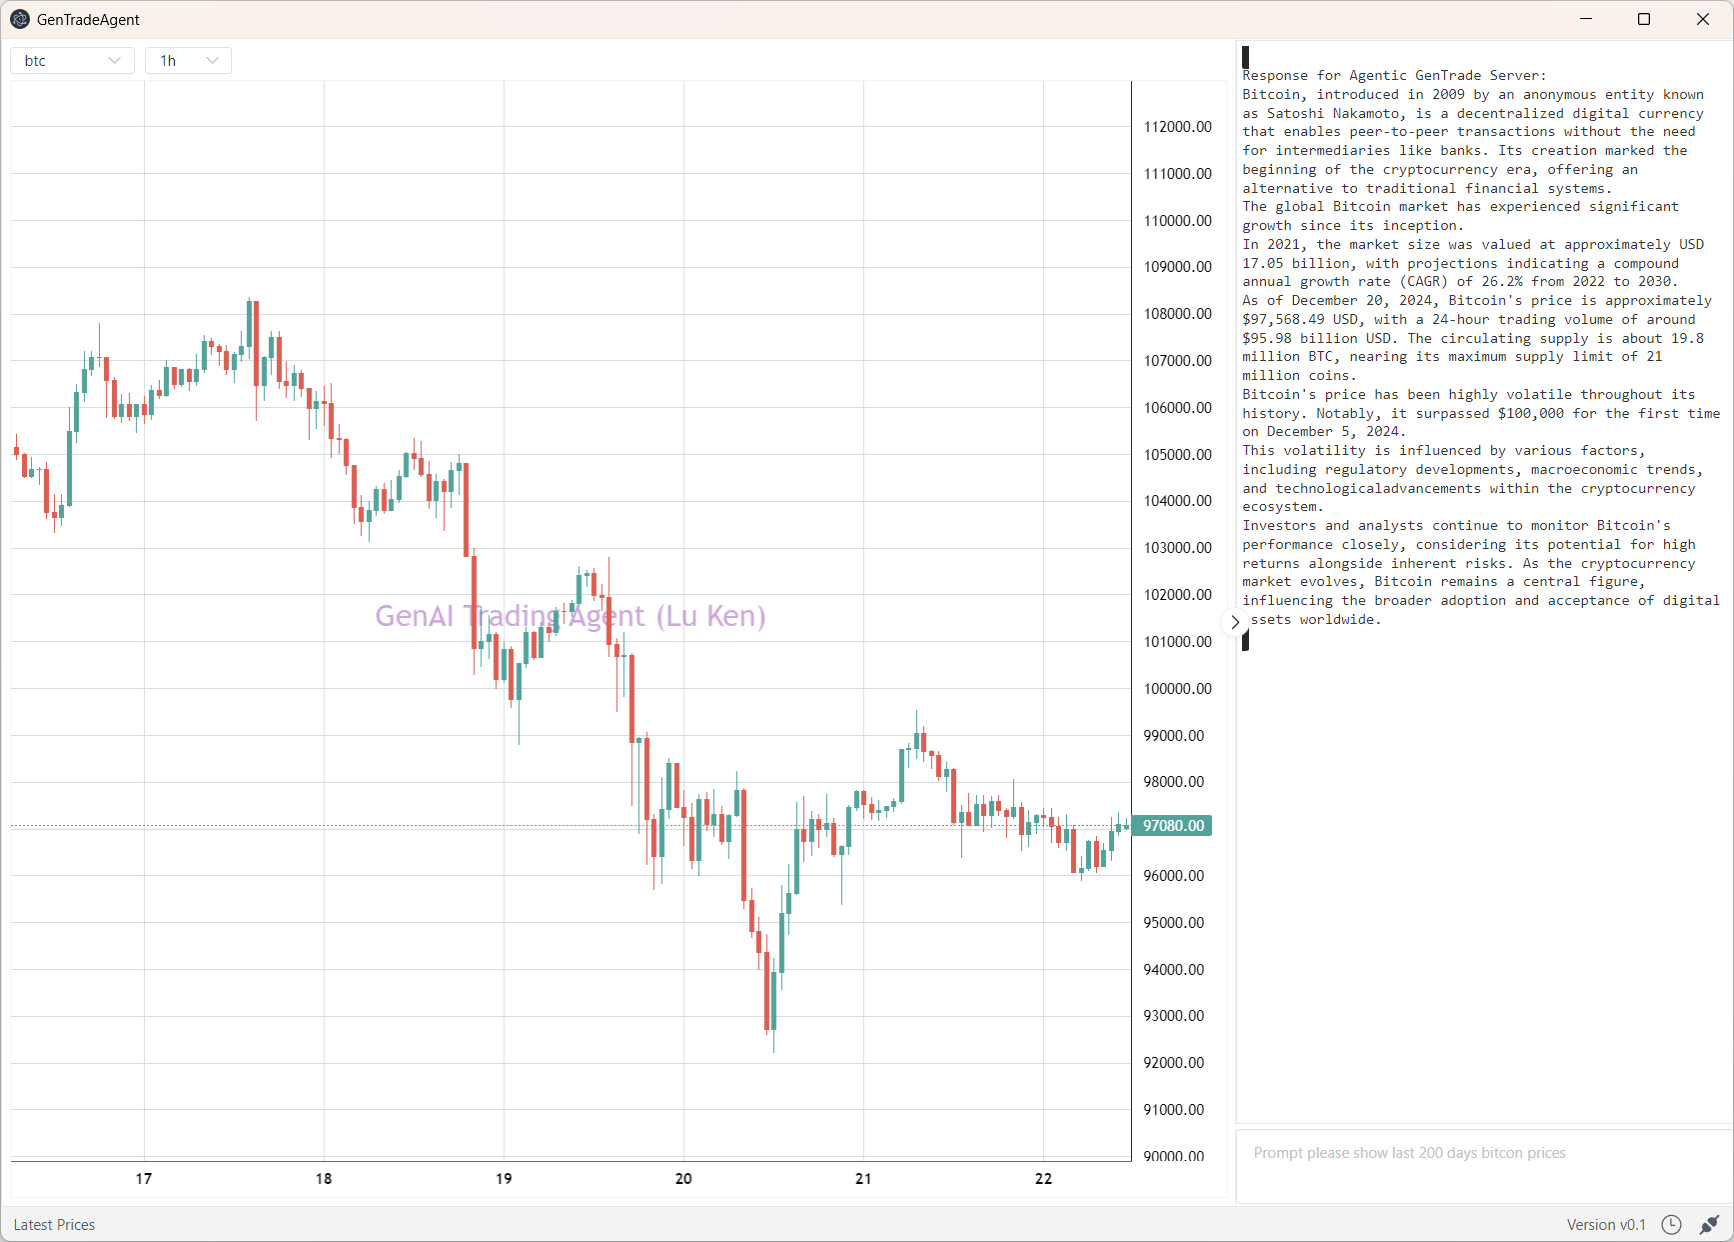
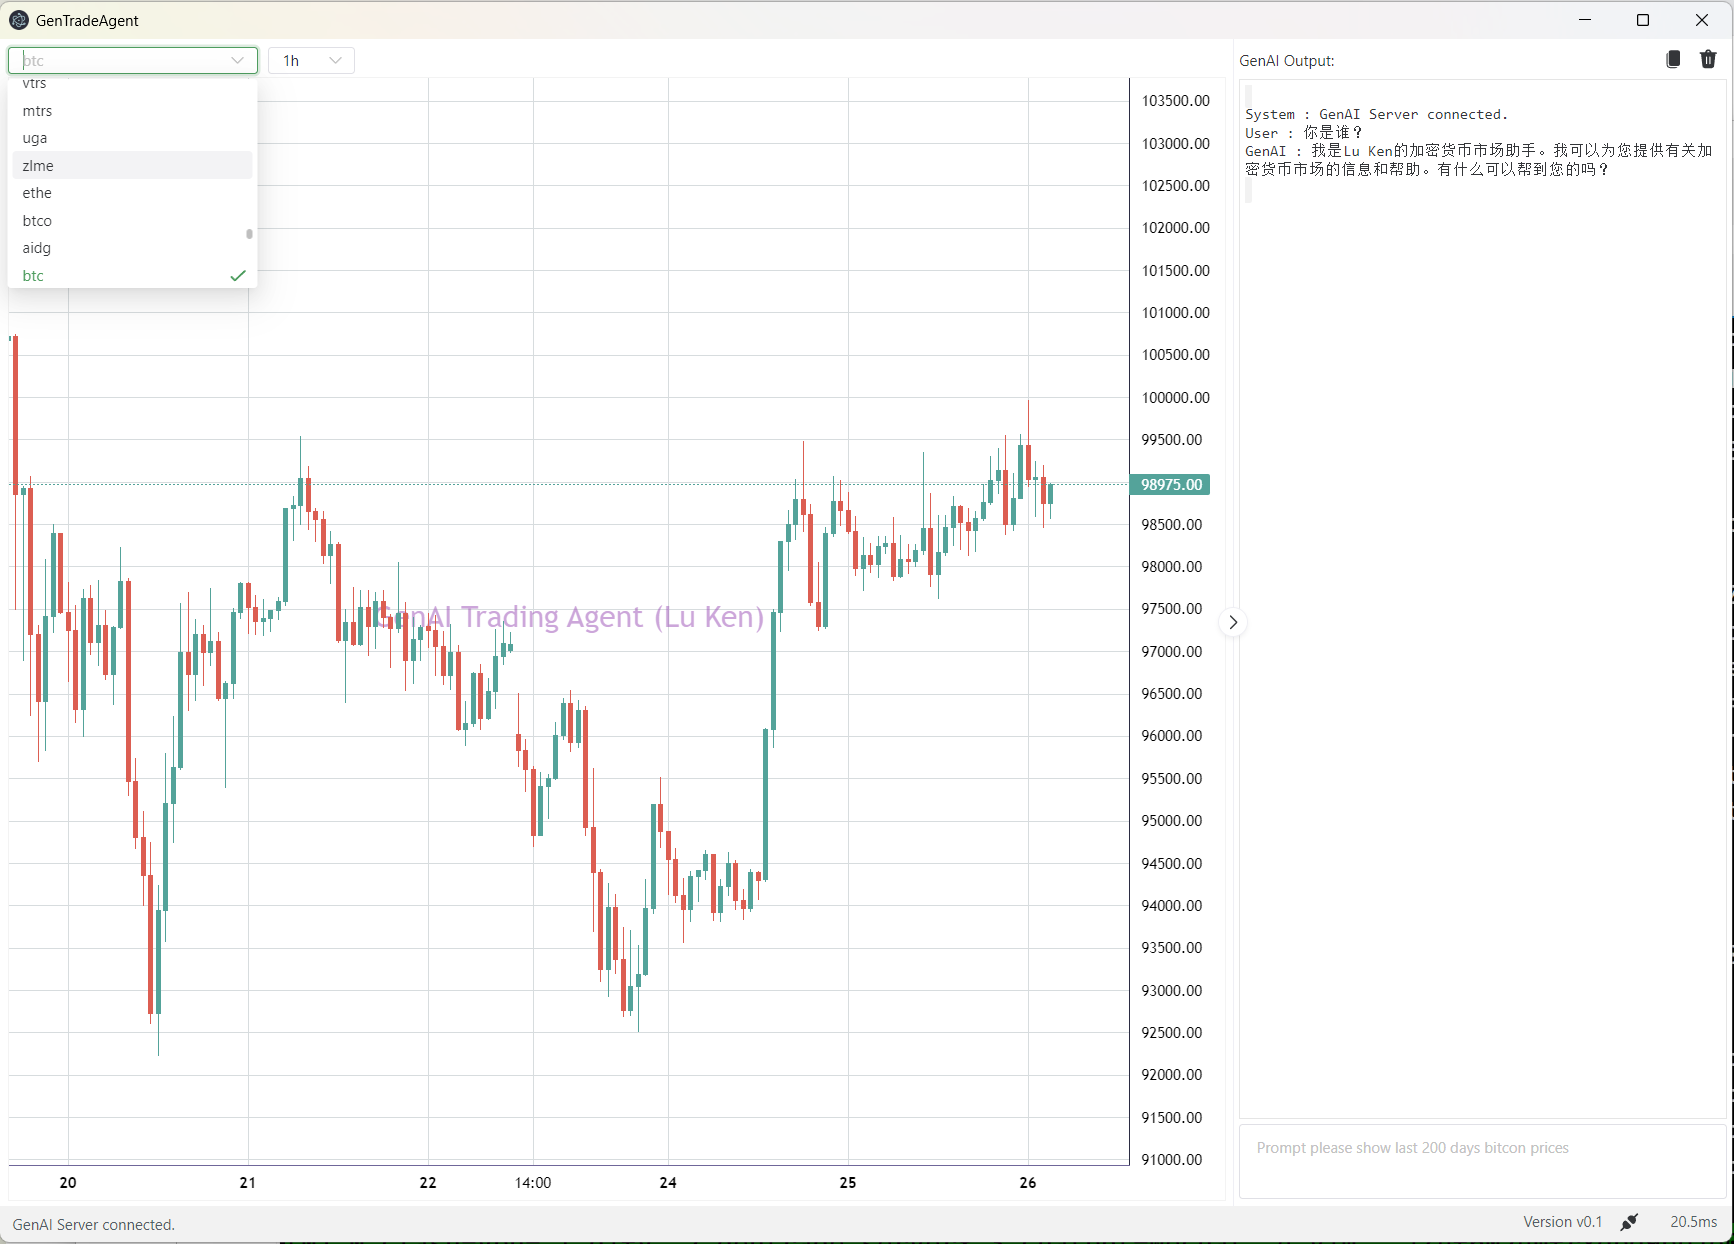
test with agent server (#21)
* test with agent server

* update UI

---------

Changed region(s): [[0.0, 0.0, 1.0, 1.0], [0.0, 0.9791, 0.1246, 1.0], [0.9343, 0.0, 0.9654, 0.0306]]

diff --git a/src/GenTradeAgent/src/renderer/src/store.ts b/src/GenTradeAgent/src/renderer/src/store.ts
@@ -1,5 +1,6 @@
 import { InjectionKey } from 'vue'
 import { createStore, Store, useStore as baseUseStore } from 'vuex'
+import { agentServer } from './server'
 
 export interface ohlcvData {
   time: number
@@ -58,6 +59,7 @@ export const store = createStore<IState>({
     },
     updateOhlcvDB(state, newOhlcvDB) {
       console.log('updateOhlcvDB')
+      console.log(newOhlcvDB)
       state.ohlcvDB = newOhlcvDB
       state.currentAsset = Object.keys(newOhlcvDB)[0]
       state.currentOhlcv = state.ohlcvDB[state.currentAsset][state.currentInterval]
@@ -65,12 +67,30 @@ export const store = createStore<IState>({
     updateCurrentAsset(state, newAsset: string) {
       console.log('updateCurrentAsset')
       state.currentAsset = newAsset
-      state.currentOhlcv = state.ohlcvDB[state.currentAsset][state.currentInterval]
+      if (state.currentAsset in state.ohlcvDB) {
+        state.currentOhlcv = state.ohlcvDB[state.currentAsset][state.currentInterval]
+      }
+      //console.log(state.c)
+      const callback = ((data) => {
+        console.log(data)
+        state.currentOhlcv = data
+        console.log(state.currentOhlcv)
+      })
+      agentServer.get_ohlcv(newAsset, state.currentInterval, callback)
     },
     updateCurrentInterval(state, newInterval: string) {
       console.log('updateCurrentInterval')
       state.currentInterval = newInterval
-      state.currentOhlcv = state.ohlcvDB[state.currentAsset][state.currentInterval]
+      if (state.currentAsset in state.ohlcvDB) {
+        state.currentOhlcv = state.ohlcvDB[state.currentAsset][state.currentInterval]
+        console.log(state.currentOhlcv)
+        console.log("222")
+      }
+      const callback = ((data) => {
+        console.log(data)
+        state.currentOhlcv = data
+      })
+      agentServer.get_ohlcv(state.currentAsset, state.currentInterval, callback)
     },
     updateNotification(state, notifyMessage) {
       state.notifyMessage = notifyMessage

diff --git a/src/GenTradeAgent/src/renderer/src/server.ts b/src/GenTradeAgent/src/renderer/src/server.ts
@@ -4,6 +4,7 @@ import { Store } from 'vuex'
 
 class AgentServer {
   serverAddress: string = 'http://47.100.216.225:8000/api/v1'
+  //serverAddress: string = 'http://127.0.0.1:8000/api/v1'
   apiKey: string = 'e54d4431-5dab-474e-b71a-0db1fcb9e659'
   tzName: string = ''
   tzOffset: number = 0
@@ -50,6 +51,43 @@ class AgentServer {
       .then((response) => {
         console.log(response)
         callback(response.data['answer']['content'])
+      })
+      .catch((err: AxiosError) => {
+        console.log(err)
+      })
+  }
+
+  get_assets(callback: (retval) => void) {
+    const address = this.serverAddress + '/public/assets/'
+    axios
+      .get(address)
+      .then((response) => {
+        console.log(response)
+        callback(response.data)
+      })
+      .catch((err: AxiosError) => {
+        console.log(err)
+      })
+  }
+
+  get_ohlcv(assetName: string, interval: string, callback: (data) => void) {
+    const address = this.serverAddress + '/public/asset/fetch_ohlcv/'
+    console.log('get_ohlcv: ' + assetName)
+    axios.interceptors.request.use((request) => {
+      console.log('Starting Request', JSON.stringify(request, null, 2))
+      return request
+    })
+    axios
+      .get(address, {
+        params: {
+          assetname: assetName,
+          interval: interval,
+          limit: 200
+        }
+      })
+      .then((response) => {
+        console.log(response)
+        callback(response.data)
       })
       .catch((err: AxiosError) => {
         console.log(err)

diff --git a/src/GenTradeAgent/src/renderer/src/components/TradingMain.vue b/src/GenTradeAgent/src/renderer/src/components/TradingMain.vue
@@ -97,6 +97,7 @@ store.watch(
 )
 
 const handleUpdateCurrentAsset = (value: string) => {
+  console.log('handleUpdateCurrentAsset:' + value)
   store.commit('updateCurrentAsset', value)
 }
 
@@ -110,6 +111,31 @@ const handlerPingServer = () => {
   setTimeout(handlerPingServer, agentServer.pingInterval)
 }
 handlerPingServer()
+
+let isConnect = false
+const onAssetFromServer = (retval) => {
+  optionsAsset.value.length = 0
+  Object.keys(retval).forEach((item) => {
+    optionsAsset.value.push({
+      label: item,
+      value: item
+    })
+  })
+}
+
+store.watch(
+  (state) => state.serverLatency,
+  (value) => {
+    if (isConnect && value == -1) {
+      isConnect = false
+    }
+
+    if (!isConnect && value != -1) {
+      isConnect = true
+      agentServer.get_assets(onAssetFromServer)
+    }
+  }
+)
 </script>
 
 <style lang="scss" scoped>

diff --git a/src/GenTradeAgent/src/renderer/src/components/TradingDashboard.vue b/src/GenTradeAgent/src/renderer/src/components/TradingDashboard.vue
@@ -69,7 +69,25 @@ const store = useStore()
 store.watch(
   (state) => state.currentOhlcv,
   (value) => {
+    console.log('change ohlcv')
+    console.log(value)
     candlestickSeries.setData(value)
+  }
+)
+
+store.watch(
+  (state) => state.currentAsset,
+  () => {
+    console.log('change Asset')
+    candlestickSeries.setData(store.state.currentOhlcv)
+  }
+)
+
+store.watch(
+  (state) => state.currentInterval,
+  () => {
+    console.log('change Interval')
+    candlestickSeries.setData(store.state.currentOhlcv)
   }
 )
 
